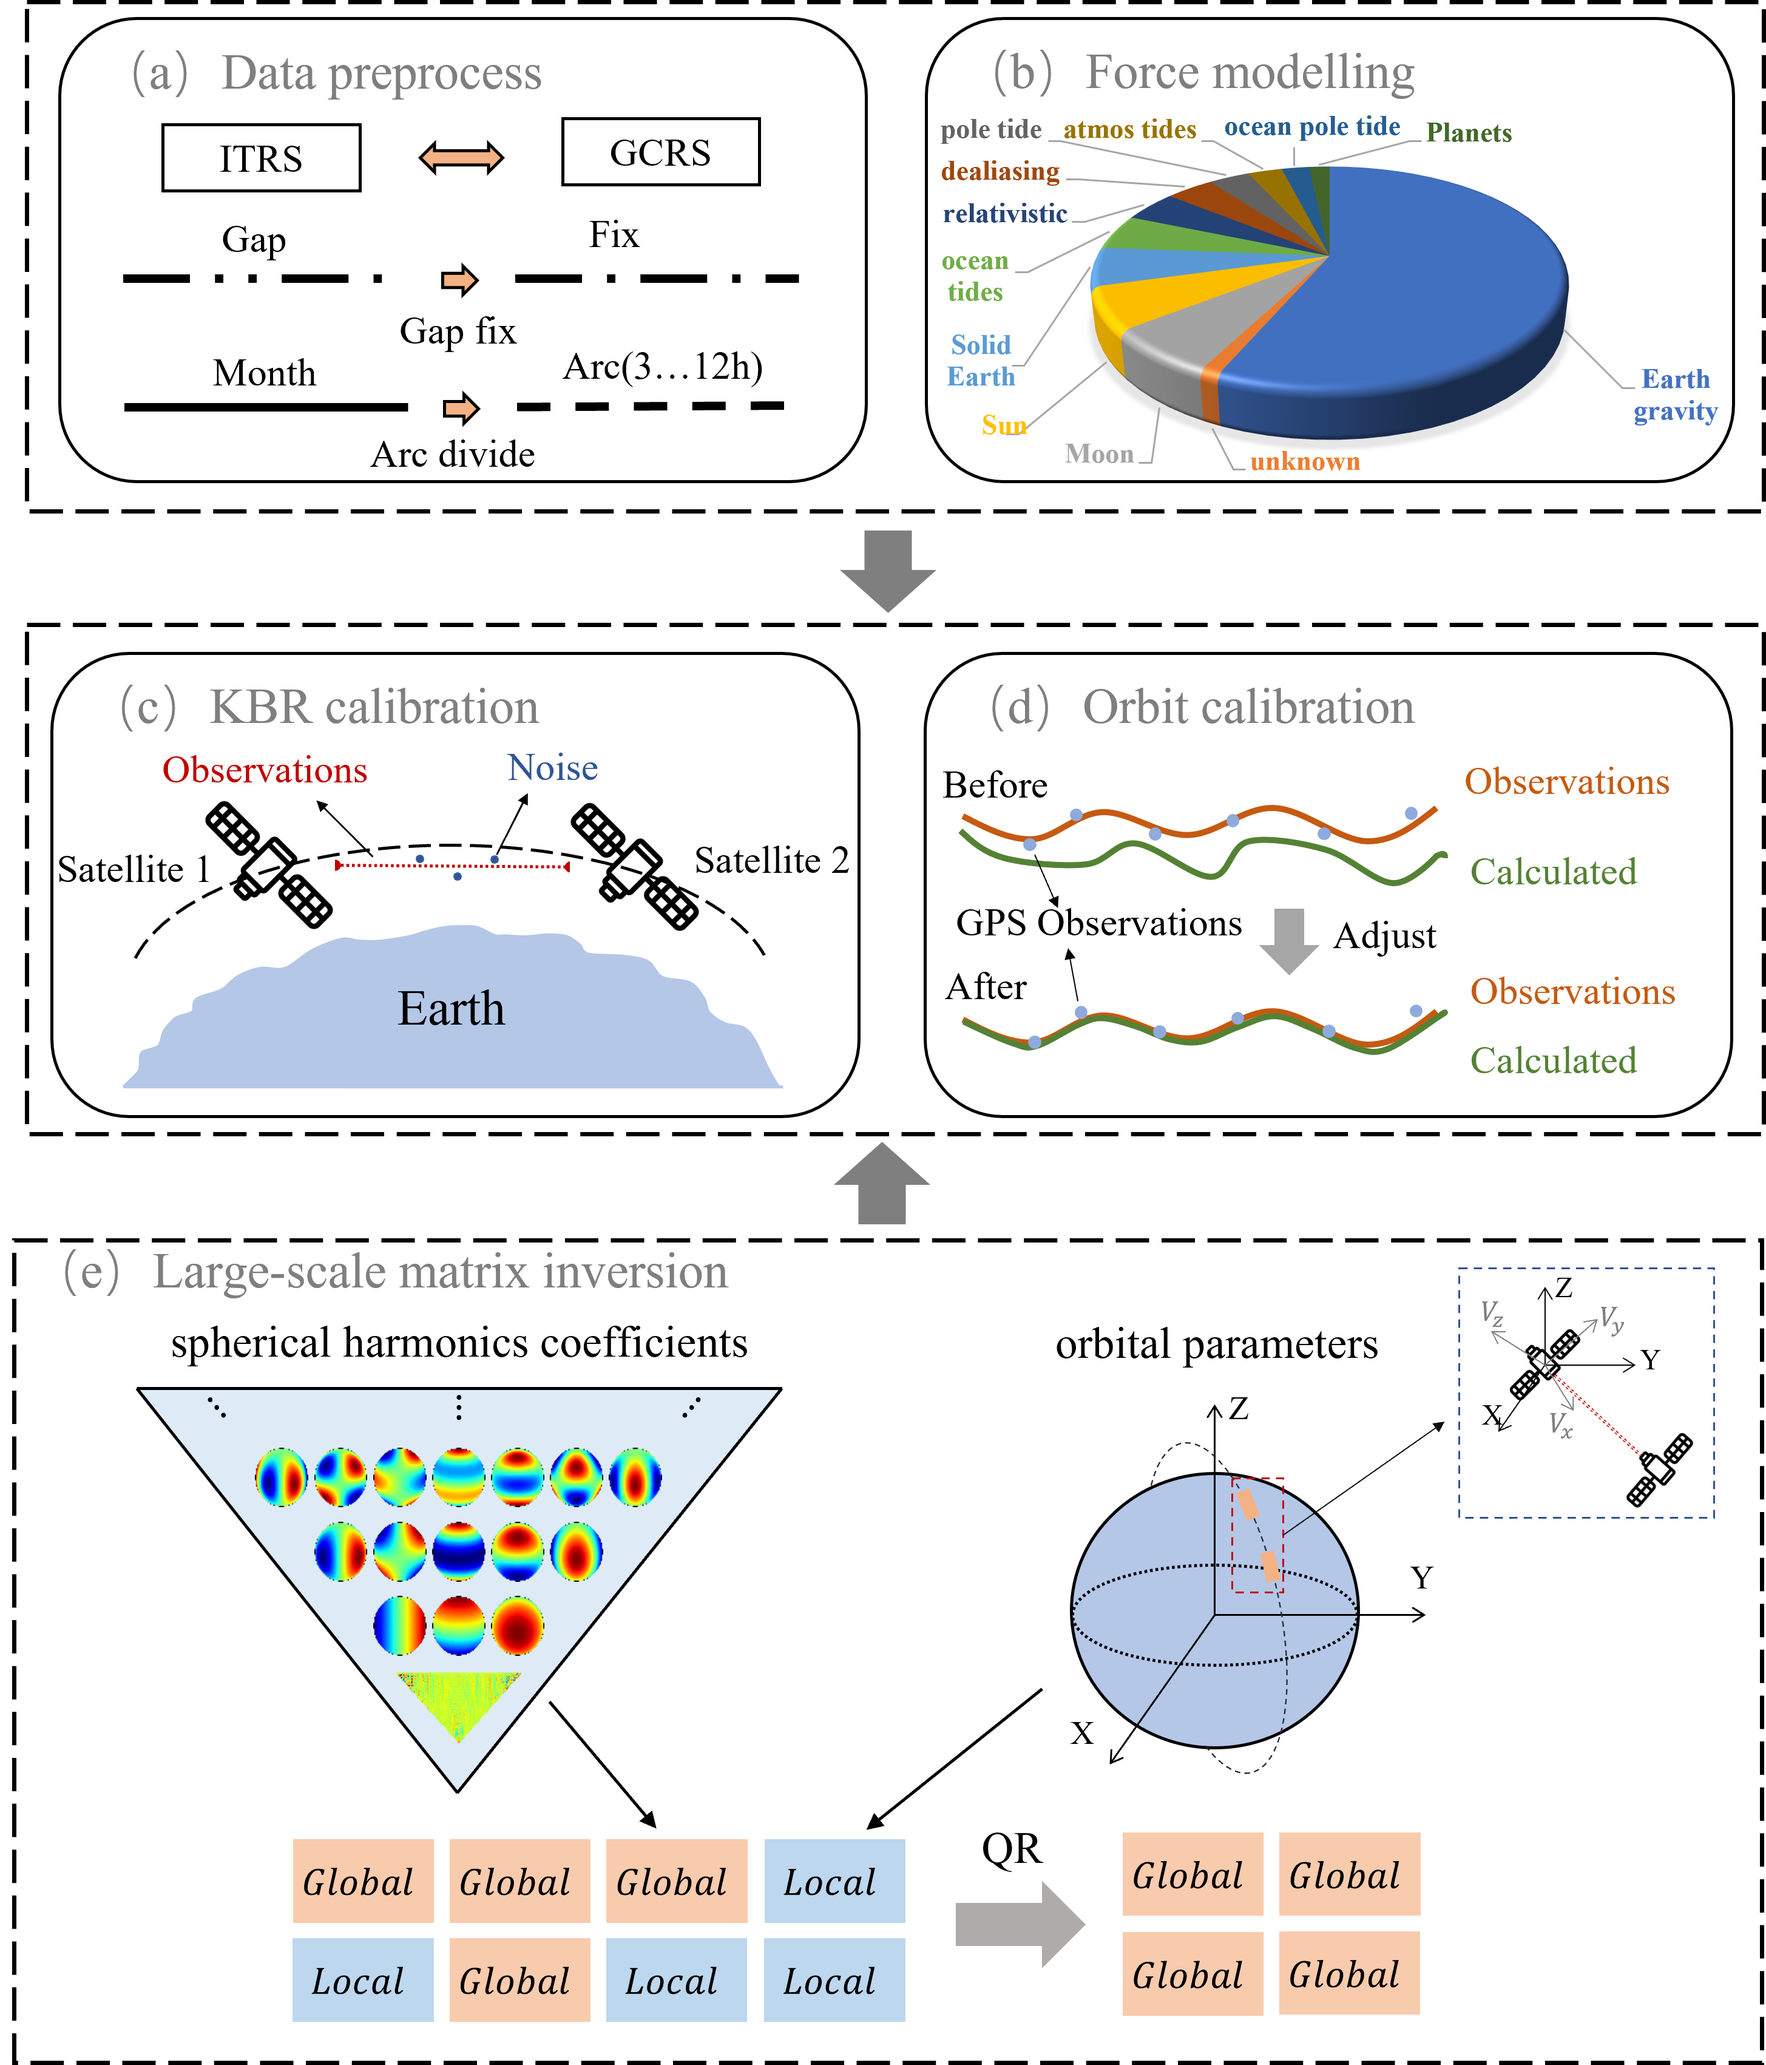
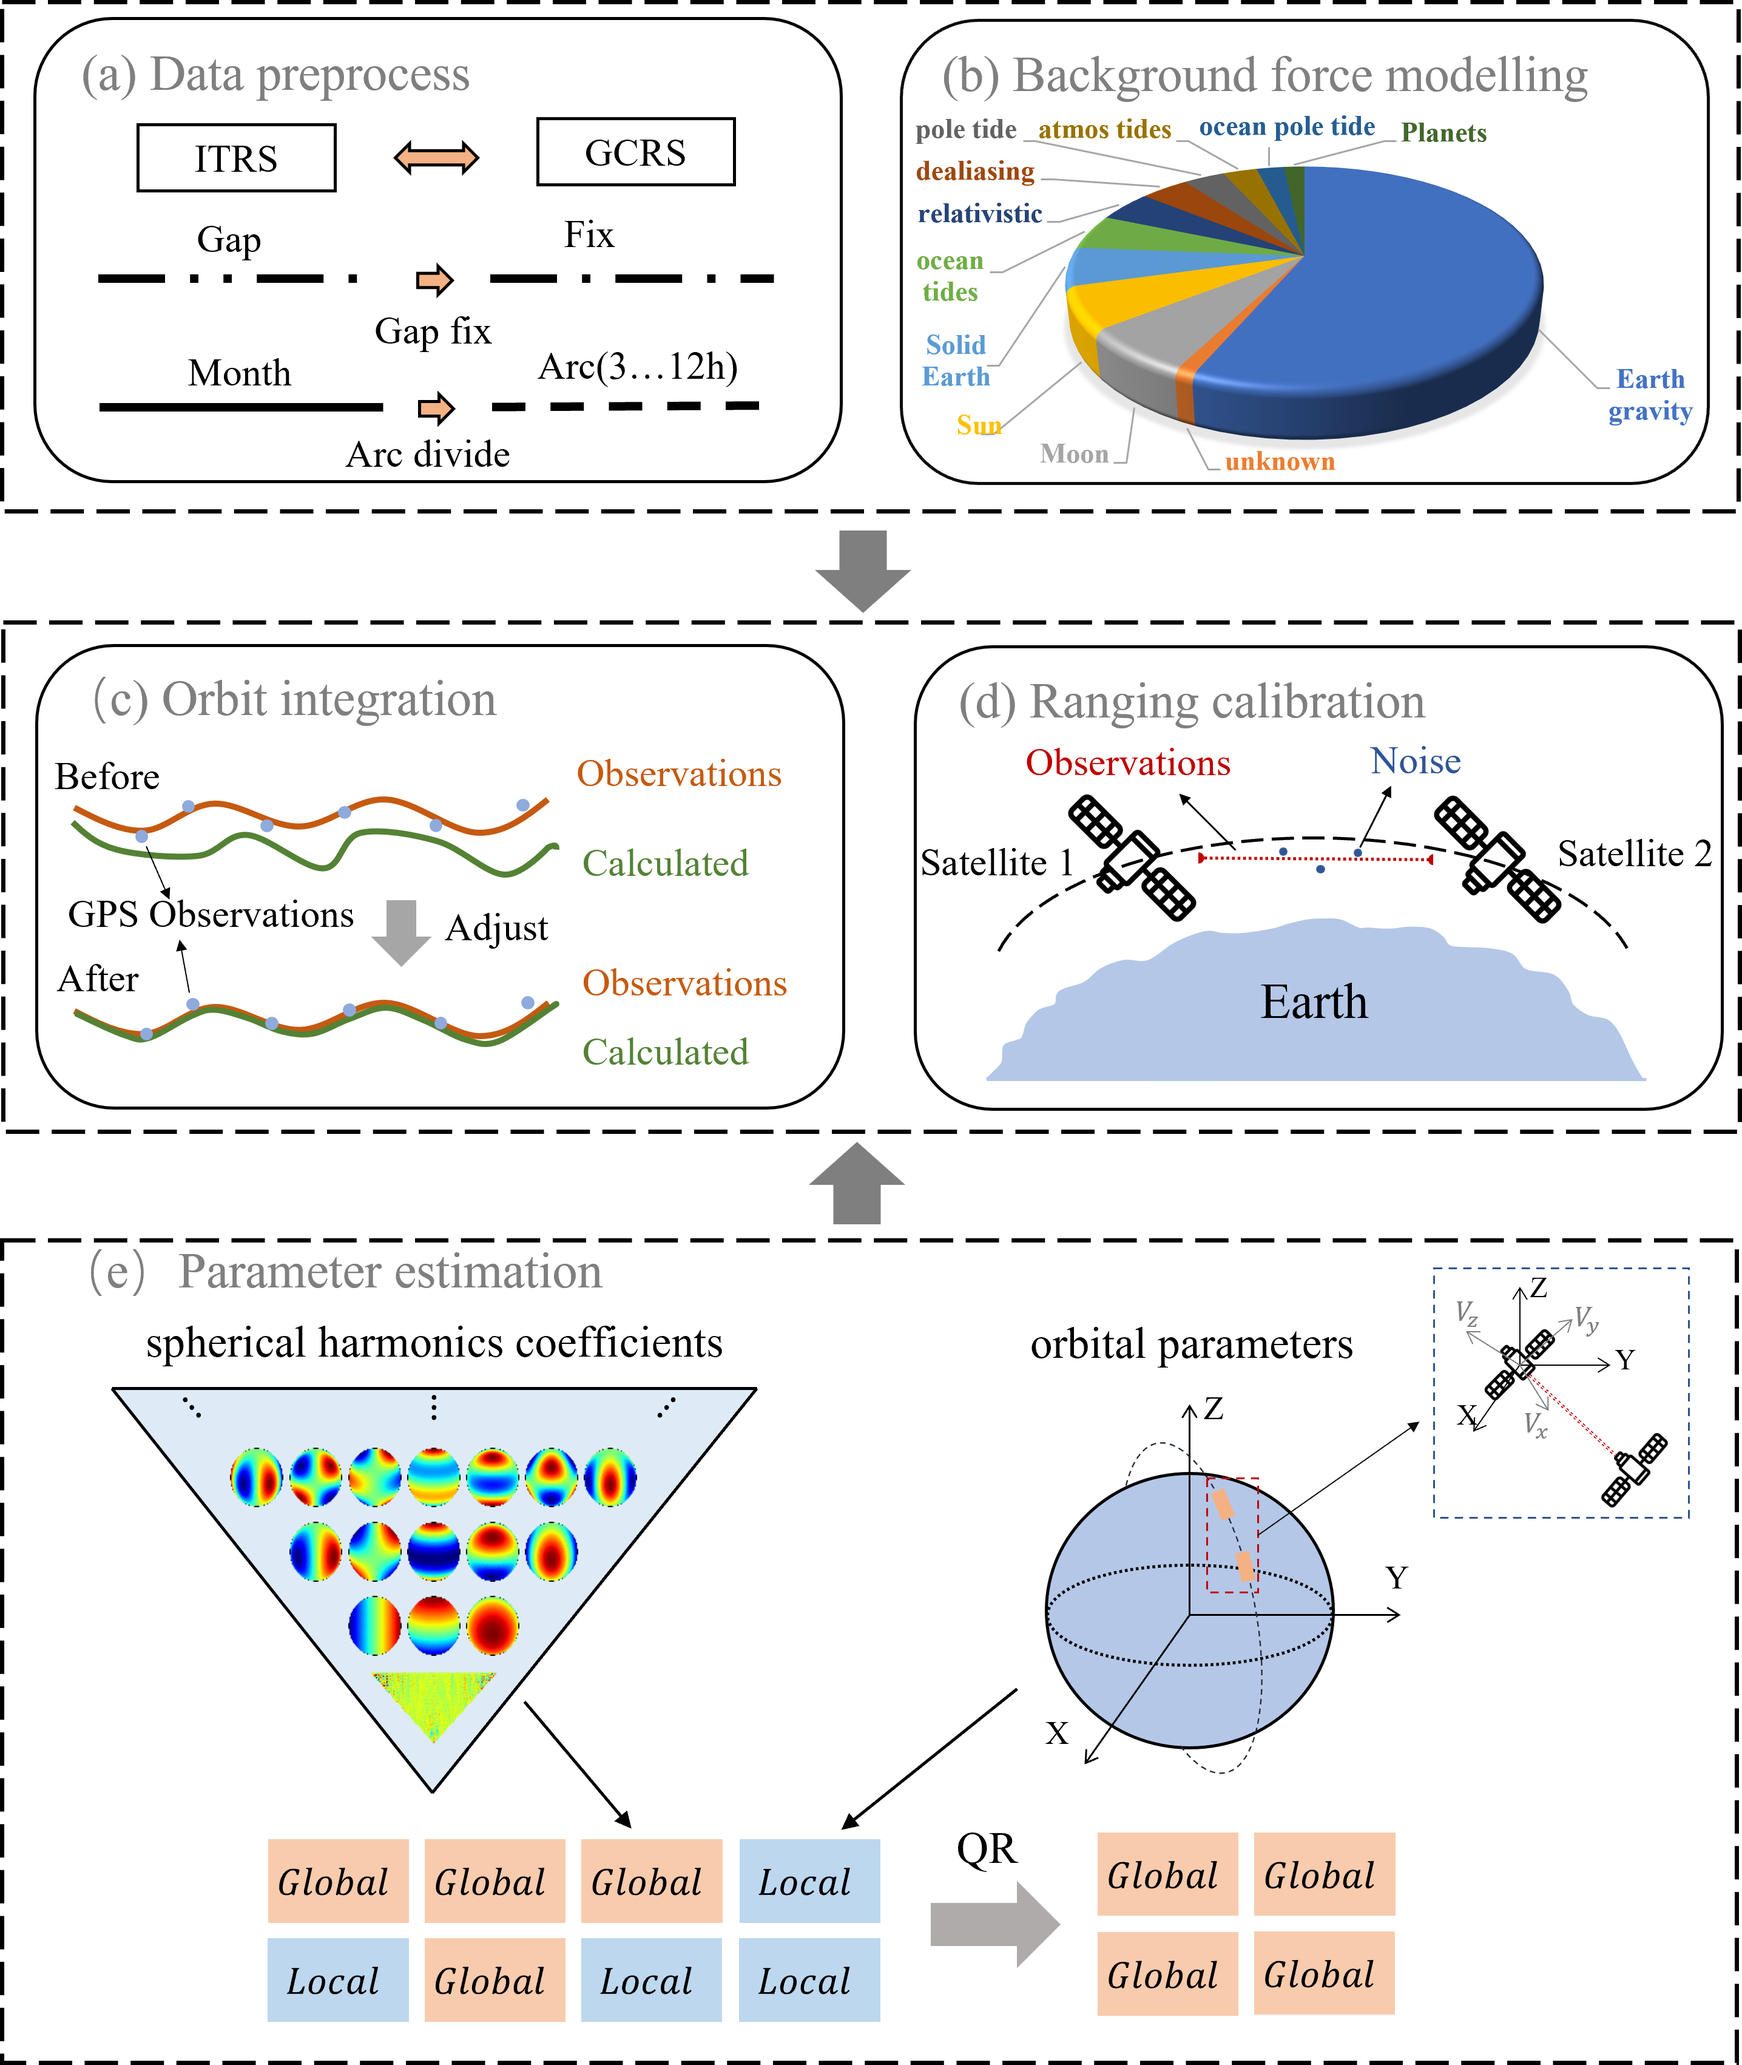
upload module

diff --git a/compare/analysis.py b/compare/analysis.py
@@ -591,10 +591,10 @@ if __name__ == '__main__':
     span2 = '2010335-2010361'
     data_span = get_month_start_and_end_by_date_interval('2009-01-01', '2010-12-31')
 
-    for i in range(len(data_span)):
-        span1 = data_span[i][0] + '-' + data_span[i][1]
-        span2 = datetransfor(data_span[i][0]) + '-' + datetransfor(data_span[i][1])
-        drawTime(data1=span1, data2=span2)
+    # for i in range(len(data_span)):
+    #     span1 = data_span[i][0] + '-' + data_span[i][1]
+    #     span2 = datetransfor(data_span[i][0]) + '-' + datetransfor(data_span[i][1])
+    #     drawTime(data1=span1, data2=span2)
         # GRACE_FO(data=span)
         # GeoidGMT()
         # drawPotentialError()

diff --git a/README.md b/README.md
@@ -1,4 +1,4 @@
-# PyHawk: An efficient solver for precise orbit calibration, inter-satellite ranging calibration and global gravity field recovery from GRACE and GRACE-FO
+# PyHawk: an effective solver for ll-SST satellite gravity missions
 
 #### Description
 Time-Variable Gravity field (TVG) represent the cumulative gravitational signals from all geophysical sources at any given moment. The global TVG signals observed from space contain information about mass redistribution occurring within the Earth's system, making them a new data type for monitoring climate and geophysical changes. For instance, the derived Total Water Storage (TWS) from TVG has been identified as an essential climate variable (ECV) for studying global climate change. In this study, we present a free, open-source, parallel and Python based PyHawk software for processing SST tasks, distinct from GROOPS. This not only offers users an alternative choice but also enhances the diversity of publicly available processing frameworks for cross-validation. More importantly, we chose to develop PyHawk in Python to help users better understand the processing chain and to provide future developers with more maintainable code.
